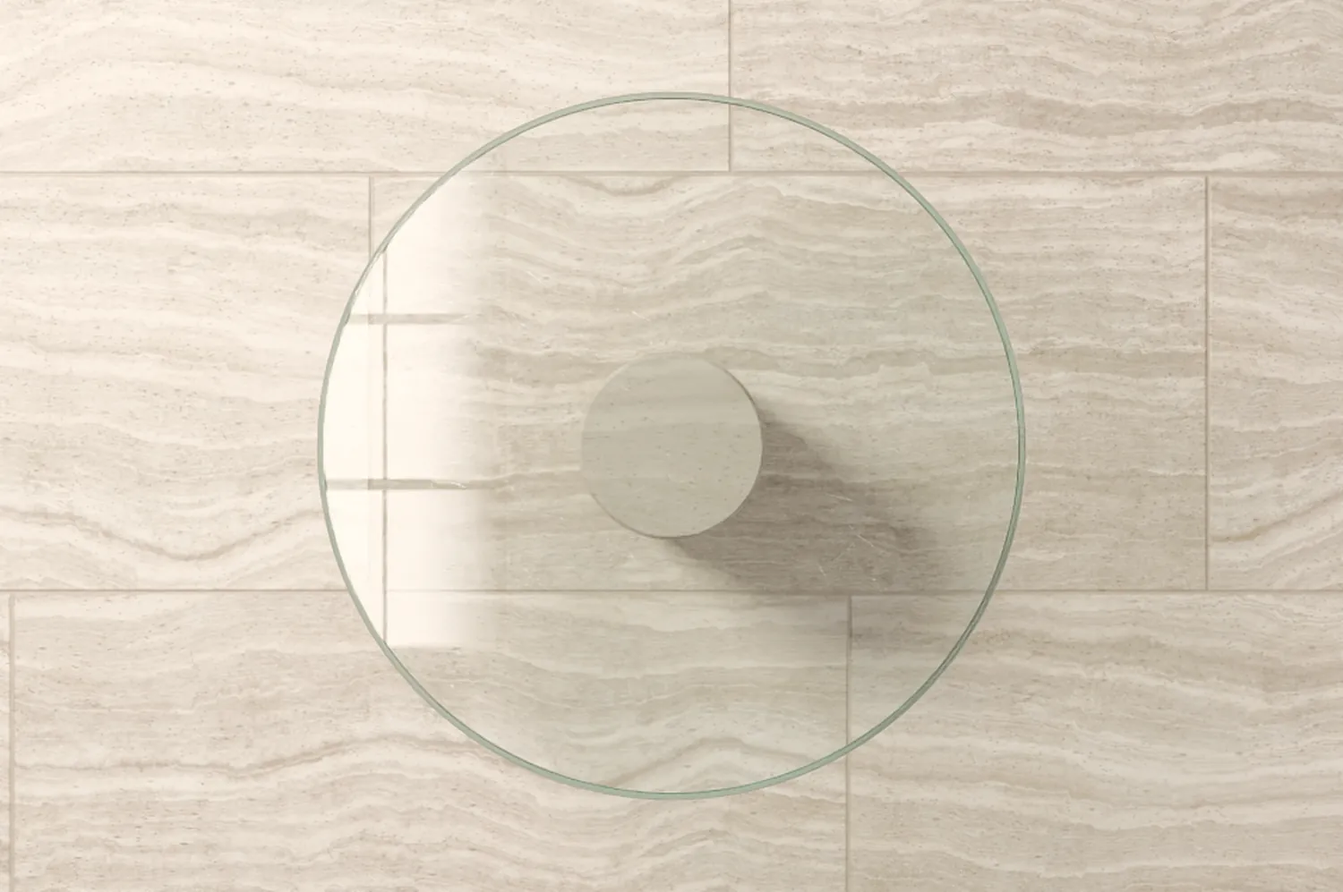
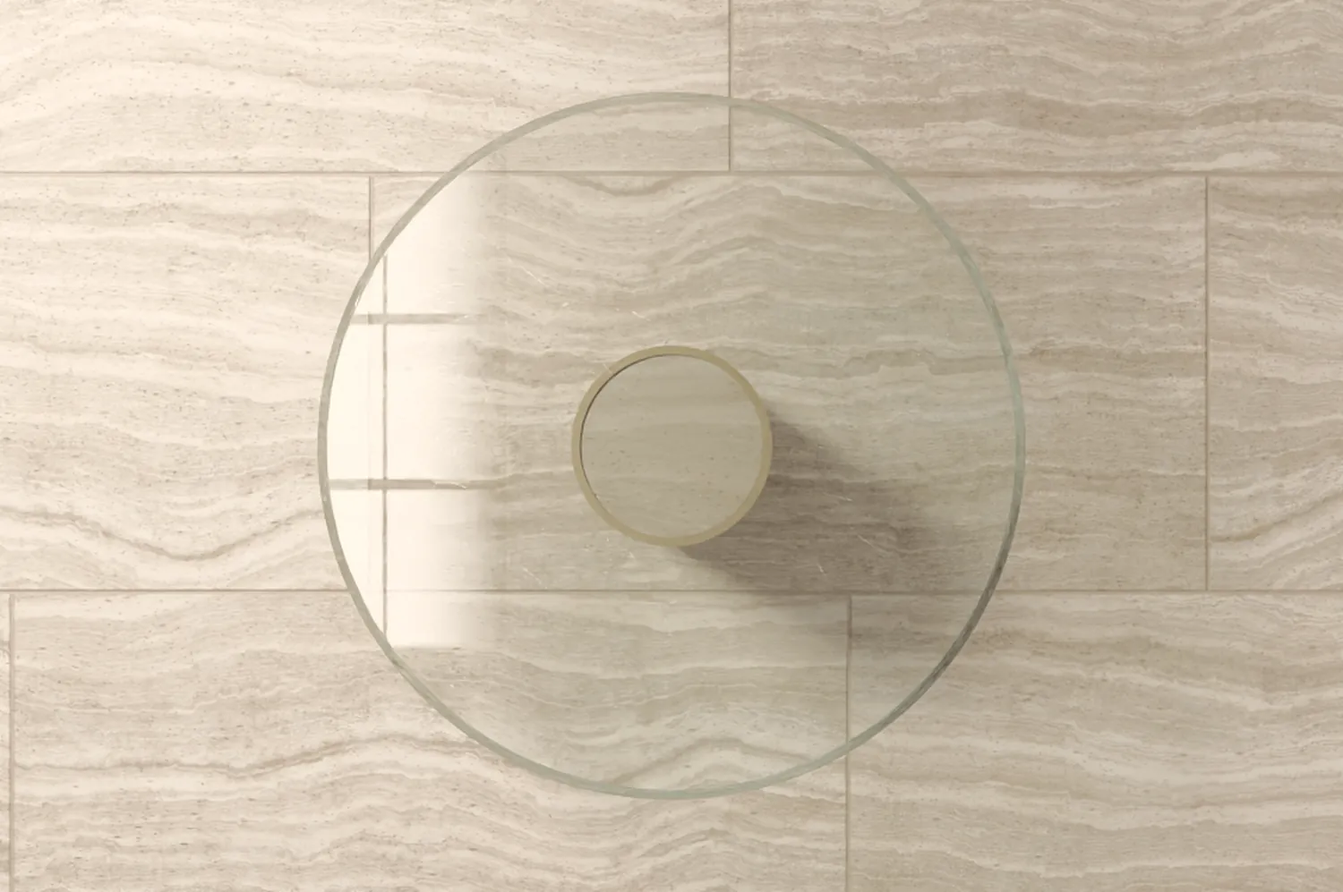
Газета: обновлённые черновики рендера стеклянного стола (в работе, на сайт не подключены)
Агент-художник продолжает: переработанные table_glass.py / table_glass_post.py, новый table_glass_shadows.py (слои теней журнала на стекле), черновые table-glass*.webp и css/news-table.css. Страницы эти файлы не подключают; финальный комплект будет отдельным коммитом после проверки на настоящей странице.

Claude-Session: https://claude.ai/code/session_01KiYDNmZLp2gU5DkgoBCDTD

diff --git a/css/news-table.css b/css/news-table.css
@@ -1,28 +1,45 @@
 /* ============ Новости: газета на круглом стеклянном столе ============
    Подключается ПОСЛЕ css/news-paper.css и только дополняет его: все правила под корнем .np и выше по специфичности, сам news-paper.css не правится.
-   Картинка стола — рендер Blender (tools/showroom-assets/news/table_glass.py): вид строго сверху на круглую столешницу из толстого стекла (Ø 90 см) и светлый
-   травертиновый пол вокруг, растянут на плоскость .np-table 3400×2260 px. Центр стола = центр плоскости; радиус стекла 900 px, барабан-основание под стеклом ≈ 240 px.
-   Перспективу и наклон камеры делает CSS (.np-cam), поэтому на картинке нет перспективы. Свет — окно слева сверху: тени падают вправо-вниз, отражение окна лежит на левом краю стекла.
-   Журнал на стекле: контактная тень мягче и светлее, чем на камне (стекло пропускает свет — основная тень ложится на пол сквозь стекло, смещена по лучу окна), кромку бумаги обводит тонкий светлый ореол. */
+   Картинка стола — рендер Blender (tools/showroom-assets/news/table_glass.py): вид строго сверху на круглую столешницу из толстого стекла (Ø 90 см, 2 см, полированная фаска)
+   и светлый травертиновый пол вокруг, растянут на плоскость .np-table 3400×2260 px (1 px плоскости = 0,5 мм на уровне столешницы).
+   Центр стола = центр плоскости (1700, 1130); радиус стекла 900 px; под стеклом каменный барабан с латунным кольцом (радиус ≈ 240 px, прячется под журналом).
+   Перспективу и наклон камеры делает CSS (.np-cam), поэтому на картинке перспективы нет. Свет — окно слева сверху: тени падают вправо-вниз, отражение окна лежит на левом краю стекла,
+   тень листвы — в правом верхнем углу плоскости (как тени оливы в зале главной).
+   Журнал на стекле: стекло пропускает свет, поэтому настоящая тень журнала ложится на ПОЛ сквозь стекло, смещена по лучу окна (стол высокий) и размыта — это запечённые слои .np-shd
+   (assets/news/news-shadow-*.webp); сама газета получает лишь тонкую контактную тень, светлую кромку и блик света окна. */
 
-/* пол и дымка вокруг стола: цвета сняты с рендера (пол ≈ #e9ded0 у света, #d7cbb8 в полутени), дальний край плоскости растворяется в светлой воздушной дымке */
-.np .np-sticky{background:#dfd4c3}
-.np .np-world{background:linear-gradient(180deg,#f2ede3 0,#e7dfd0 30%,#dacfbc 62%,#d3c7b3 100%)}
-.np .np-table{background:#dccfbd url(../assets/news/table-glass.webp) center/100% 100% no-repeat;
+/* ---------- пол и дымка ---------- */
+/* стол чуть ниже плоскости газеты: у news-paper.css он на -1px, а тень газеты (.np-book::before) на -2px — оказывалась ПОД столом и не была видна */
+.np .np-table{transform:translateZ(-6px);background:#cdbfa9 url(../assets/news/table-glass.webp) center/100% 100% no-repeat;
   -webkit-mask-image:linear-gradient(180deg,transparent 0,#000 13%),linear-gradient(90deg,transparent 0,#000 7%,#000 93%,transparent 100%);-webkit-mask-composite:source-in;
   mask-image:linear-gradient(180deg,transparent 0,#000 13%),linear-gradient(90deg,transparent 0,#000 7%,#000 93%,transparent 100%);mask-composite:intersect}
+/* цвета фона сняты с рендера: пол в свету ≈ #d6c8b4, в полутени ≈ #bfae96; дальний край плоскости растворяется в светлой воздушной дымке */
+.np .np-sticky{background:#cfc1ab}
+.np .np-world{background:linear-gradient(180deg,#efe8dc 0,#e0d6c4 28%,#d1c3ac 60%,#c8b9a1 100%)}
 /* камера «лежит» (прокрутка дошла до газеты, идёт листание): дымка по краям плоскости не видна — маску снимаем, слой дешевле для композитора на каждом кадре листания */
 .np .np-cam.is-flat .np-table{-webkit-mask-image:none;mask-image:none}
 @media (max-width:860px){.np .np-table{background-image:url(../assets/news/table-glass-m.webp)}}
 @media (prefers-reduced-data:reduce){.np .np-table{background-image:url(../assets/news/table-glass-m.webp)}}
 
 /* лёгкий слой света: тёплое «окно» слева сверху поверх пола и мягкое затемнение к краям плоскости (внимание — к столу, края кадра не видны) */
-.np .np-light{background:radial-gradient(52% 44% at 22% 14%,rgba(255,250,238,.26),transparent 70%),radial-gradient(70% 72% at 50% 52%,transparent 58%,rgba(86,70,46,.20) 100%)}
+.np .np-light{background:radial-gradient(52% 44% at 22% 14%,rgba(255,248,232,.20),transparent 70%),radial-gradient(70% 72% at 50% 52%,transparent 56%,rgba(70,54,34,.22) 100%)}
 
-/* газета на стекле: тень мягче и светлее, чем на камне, не чёрная.
-   1 — касание бумаги к стеклу (тонкая, прохладная); 2 — полутень на самом стекле; 3 — тень, прошедшая сквозь стекло и упавшая на пол (смещена вправо-вниз по лучу окна, как тень барабана на рендере);
-   4 — дальний мягкий след; 5 — тонкая тёмная кромка бумаги */
-.np .np-book::before{box-shadow:0 .04em .14em rgba(38,46,44,.34),.18em .34em .8em -.2em rgba(66,58,44,.24),1.5em 2.5em 3.2em -.9em rgba(76,62,42,.20),3.6em 5.6em 6.4em -2.2em rgba(76,62,42,.12),0 0 0 1px rgba(60,48,28,.14)}
-/* просвечивание: бумага светлее стекла, у её кромки стекло чуть подсвечено (двойная кромка — отражение нижней грани стекла), без свечения-«стикера» */
+/* ---------- запечённые тени журнала на полу сквозь стекло ----------
+   Два слоя внутри .np-rig (двигаются и поворачиваются вместе с газетой); размеры и смещение — в долях --pw / --ph (ширина и высота страницы, задаются JS на .np-rig).
+   .np-shd-c — закрытая газета (обложка 1 страница), .np-shd-o — разворот (2 страницы); включается классом .is-on (плавное перекрёстное растворение).
+   Поле слоя при --pw = 500, --ph = 676: закрытая 1680×1590 px, смещение (-380; -460) от центра журнала; разворот 2140×1590 px, смещение (-640; -460). Центр журнала = центр .np-rig. */
+.np .np-shd{position:absolute;left:0;top:0;pointer-events:none;opacity:0;transform:translateZ(-3px);background:0 0/100% 100% no-repeat;transition:opacity .55s ease}
+.np .np-shd.is-on{opacity:1}
+.np .np-shd-c{left:calc(var(--pw) * -.76);top:calc(var(--ph) * -.6805);width:calc(var(--pw) * 3.36);height:calc(var(--ph) * 2.352);background-image:url(../assets/news/news-shadow-closed.webp)}
+.np .np-shd-o{left:calc(var(--pw) * -1.28);top:calc(var(--ph) * -.6805);width:calc(var(--pw) * 4.28);height:calc(var(--ph) * 2.352);background-image:url(../assets/news/news-shadow-open.webp)}
+
+/* ---------- газета на стекле ---------- */
+/* контактная тень на самом стекле — тонкая и прохладная (стекло прозрачно: основная тень — на полу); снизу — торец стопки страниц (3 px линий кромок) */
+.np .np-book::before{bottom:-3px;background:repeating-linear-gradient(180deg,#f6efde 0 1px,#cbbf9f 1px 2px,#efe6d0 2px 3px);
+  box-shadow:0 .05em .1em rgba(36,44,42,.34),.1em .2em .45em -.05em rgba(64,54,40,.22),.35em .6em 1.3em -.35em rgba(70,58,40,.16),0 0 0 1px rgba(60,48,28,.16)}
+/* просвечивание: у кромки бумаги стекло чуть подсвечено (двойная кромка от нижней грани стекла), без свечения-«стикера» */
 .np .np-book::after{content:"";position:absolute;left:var(--sl,0);right:var(--sr,0);top:0;bottom:0;z-index:-1;transform:translateZ(-1px);border-radius:3px;pointer-events:none;
-  box-shadow:0 0 0 1px rgba(255,253,246,.34),0 0 .55em .06em rgba(255,250,236,.30)}
+  box-shadow:0 0 0 1px rgba(255,253,246,.30),0 0 .5em .05em rgba(255,250,236,.26)}
+/* бумага ловит свет окна: мягкий диагональный свет слева сверху и лёгкая тень справа снизу; на обложке — ещё и узкий блик (глянцевая печать) */
+.np .np-face::after{content:"";position:absolute;inset:0;z-index:3;pointer-events:none;background:linear-gradient(118deg,rgba(255,251,240,.17) 0,rgba(255,251,240,0) 36%,rgba(44,30,10,0) 64%,rgba(44,30,10,.09) 100%)}
+.np .np-face:has(>.np-p-cover)::after{background:linear-gradient(112deg,rgba(255,252,244,0) 18%,rgba(255,252,244,.20) 27%,rgba(255,252,244,0) 36%),linear-gradient(118deg,rgba(255,251,240,.15) 0,rgba(255,251,240,0) 36%,rgba(44,30,10,0) 64%,rgba(44,30,10,.09) 100%)}

diff --git a/tools/showroom-assets/news/table_glass.py b/tools/showroom-assets/news/table_glass.py
@@ -32,6 +32,7 @@ TEXD = os.path.join(ROOT, 'tools', 'showroom-assets', 'textures')
 _f = lambda k, d: float(os.environ.get(k, d))
 OUT = os.path.abspath(sys.argv[1]) if len(sys.argv) > 1 else os.path.join(os.environ.get('TG_TMP', '/tmp'), 'table_glass_raw.png')
 TMP = os.environ.get('TG_TMP', '/tmp'); os.makedirs(TMP, exist_ok=True)
+BOOK = os.environ.get('TG_BOOK', '')                       # '' — обычный кадр; 'closed' / 'open' — слой тени журнала (см. table_glass_shadows.py): журнал камере невидим, отбрасывает тень и подсвечивает пол
 RW = int(_f('TG_W', 2880)); RH = round(RW * 2260 / 3400); SPP = int(_f('TG_SPP', 112))
 
 # ---------------------------------------------------------------------------------------------------------------- размеры (1 ед. = 10 см)
@@ -121,12 +122,12 @@ def make_dust_map(path, S=4096):
         stroke(sc, pts, 1 if rng.random() < .75 else 2, rng.uniform(.18, .75))
     # длинные редкие дуги — следы протирания тканью (по всему диску, не сходятся в центре)
     sw = np.zeros((S, S), np.float32)
-    for i in range(30):
+    for i in range(14):
         r = math.sqrt(rng.uniform(0, 1)) * c * .9; ang = rng.uniform(0, 2 * math.pi); x, y = c + r * math.cos(ang), c + r * math.sin(ang)
-        t = rng.uniform(0, 2 * math.pi); turn = rng.choice([-1, 1]) * rng.uniform(.0006, .0030); step = rng.uniform(.5, 1.6) * S / 70; pts = []
+        t = rng.uniform(0, 2 * math.pi); turn = rng.choice([-1, 1]) * rng.uniform(.0002, .0007); step = rng.uniform(.5, 1.6) * S / 70; pts = []
         for k in range(60):
             pts.append((x, y)); x += math.cos(t) * step; y += math.sin(t) * step; t += turn * step
-        stroke(sw, pts, 3, rng.uniform(.12, .38))
+        stroke(sw, pts, 3, rng.uniform(.10, .30))
     sw = cv2.GaussianBlur(sw, (0, 0), 2.2)
     # пылинки и точки: редкие, мелкие, чуть разной яркости, кучками
     du = np.zeros((S, S), np.float32)
@@ -142,7 +143,7 @@ def make_dust_map(path, S=4096):
 
 
 # ---------------------------------------------------------------------------------------------------------------- материалы
-def stone_mat(name, tile_units=12.0, slab=(12.0, 6.0), joints=True, albedo=(.83, .79, .72), chroma=.42, honed=.40, pits=1.0, seed=1, cboost=2.1):
+def stone_mat(name, tile_units=12.0, slab=(12.0, 6.0), joints=True, albedo=(.83, .79, .72), chroma=.42, honed=.34, pits=1.0, seed=1, cboost=2.1):
     """травертин: цвет и жилы — из пака CC0 (travertine-ivory), приглушён к нейтрально-тёплому тону (chroma — доля исходной насыщенности), плиты slab вразбежку, у каждой свой кусок рисунка,
     швы, процедурные поры (вытянутые вдоль слоёв) и микрозерно; матовая шлифовка"""
     m = bpy.data.materials.new(name); nt = nodes_of(m)
@@ -221,7 +222,7 @@ def glass_mat(dust_path):
     mp.inputs['Scale'].default_value = (1 / (2 * R_GLASS / .985 * 1.0),) * 2 + (1,); mp.inputs['Location'].default_value = (.5, .5, 0); link(nt, tc.outputs['Object'], mp.inputs['Vector'])
     dt = img_tex(nt, dust_path, 'Non-Color', mp.outputs['Vector'], 'Linear'); dm = dt.outputs['Color']
     dmask = N(nt, 'ShaderNodeRGBToBW'); link(nt, dm, dmask.inputs['Color']); dv = dmask.outputs['Val']
-    scr = _f('TG_SCR', .6)
+    scr = _f('TG_SCR', .7)
     # низкочастотная волнистость поверхности: настоящее флоат-стекло чуть «играет» в отражении — мягкие полосы вместо однотонной пелены
     wave = noise_(nt, tc.outputs['Object'], .42, 2, .5, .5)
     rough = math_(nt, 'ADD', .004, math_(nt, 'MULTIPLY', dv, .10 * scr), clamp=True)
@@ -233,7 +234,7 @@ def glass_mat(dust_path):
     dg = N(nt, 'ShaderNodeMixShader'); dg.inputs['Fac'].default_value = .12; link(nt, gs.outputs['BSDF'], dg.inputs[1]); link(nt, df.outputs['BSDF'], dg.inputs[2])
     sc_mix = N(nt, 'ShaderNodeMixShader'); link(nt, math_(nt, 'MULTIPLY', dv, .55 * scr, clamp=True), sc_mix.inputs['Fac']); link(nt, gl.outputs['BSDF'], sc_mix.inputs[1]); link(nt, dg.outputs['Shader'], sc_mix.inputs[2])
     # теневые лучи: плёнка с тоном стекла
-    tr = N(nt, 'ShaderNodeBsdfTransparent'); tr.inputs['Color'].default_value = (_f('TG_SHR', .86), _f('TG_SHG', .88), _f('TG_SHB', .86), 1)
+    tr = N(nt, 'ShaderNodeBsdfTransparent'); tr.inputs['Color'].default_value = (_f('TG_SHR', .90), _f('TG_SHG', .92), _f('TG_SHB', .90), 1)
     lp = N(nt, 'ShaderNodeLightPath'); fin = N(nt, 'ShaderNodeMixShader'); link(nt, lp.outputs['Is Shadow Ray'], fin.inputs['Fac']); link(nt, sc_mix.outputs['Shader'], fin.inputs[1]); link(nt, tr.outputs['BSDF'], fin.inputs[2])
     link(nt, fin.outputs['Shader'], out.inputs['Surface'])
     ab = N(nt, 'ShaderNodeVolumeAbsorption'); ab.inputs['Color'].default_value = (_f('TG_ABR', .92), _f('TG_ABG', .975), _f('TG_ABB', .945), 1); ab.inputs['Density'].default_value = _f('TG_ABD', 5.0); link(nt, ab.outputs['Volume'], out.inputs['Volume'])
@@ -288,36 +289,60 @@ def window_panel_mat(s_win):
 
 # ---------------------------------------------------------------------------------------------------------------- геометрия
 def lathe(name, profile, segs, mat, side_mat=None):
-    """тело вращения вокруг оси Z по профилю [(r, z), …] от нижней оси к верхней; крышки — отдельные плоские n-угольники"""
-    me = bpy.data.meshes.new(name); bm = bmesh.new()
-    pts = profile
-    rings = []
-    for r, z in pts[1:-1]:
-        rings.append([bm.verts.new((r * math.cos(2 * math.pi * i / segs), r * math.sin(2 * math.pi * i / segs), z)) for i in range(segs)])
-    for a, b in zip(rings[:-1], rings[1:]):
+    """тело вращения вокруг оси Z по профилю [(r, z), …] от нижней оси к верхней. У каждого отрезка профиля свои кольца вершин: нормали сглаживаются только по окружности,
+    поэтому плоские грани (боковая, фаска) остаются строго плоскими вдоль профиля и не «заплывают» около скруглений; крышки — отдельные плоские n-угольники"""
+    me = bpy.data.meshes.new(name); bm = bmesh.new(); pts = profile
+    ring = lambda r, z: [bm.verts.new((r * math.cos(2 * math.pi * i / segs), r * math.sin(2 * math.pi * i / segs), z)) for i in range(segs)]
+    inner = pts[1:-1]
+    for (r0, z0), (r1, z1) in zip(inner[:-1], inner[1:]):
+        a, b = ring(r0, z0), ring(r1, z1)
         for i in range(segs):
             j = (i + 1) % segs; f = bm.faces.new((a[i], a[j], b[j], b[i])); f.smooth = True; f.material_index = 1 if side_mat else 0
-    # крышки на отдельных вершинах (чтобы их нормали были строго плоскими)
-    for ring, z, up in ((rings[0], pts[0][1], False), (rings[-1], pts[-1][1], True)):
-        r = math.hypot(ring[0].co.x, ring[0].co.y); zc = ring[0].co.z
-        cap = [bm.verts.new((r * math.cos(2 * math.pi * i / segs), r * math.sin(2 * math.pi * i / segs), zc)) for i in range(segs)]
-        f = bm.faces.new(cap if up else cap[::-1]); f.smooth = False
+    for (r, z), up in ((inner[0], False), (inner[-1], True)):
+        cap = ring(r, z); f = bm.faces.new(cap if up else cap[::-1]); f.smooth = False
     bm.to_mesh(me); bm.free()
     ob = bpy.data.objects.new(name, me); bpy.context.scene.collection.objects.link(ob); ob.data.materials.append(mat)
     if side_mat: ob.data.materials.append(side_mat)
     return ob
 
 
+def rounded(points, radii, n=5):
+    """ломаная с круглением углов: на каждом внутреннем углу отрезок заменяется квадратичной кривой Безье (радиус — отступ вдоль сторон)"""
+    out = [points[0]]
+    for k in range(1, len(points) - 1):
+        p0, c, p1 = Vector(points[k - 1]), Vector(points[k]), Vector(points[k + 1]); d = radii[k - 1]
+        u0 = (p0 - c).normalized() * min(d, (p0 - c).length * .45); u1 = (p1 - c).normalized() * min(d, (p1 - c).length * .45); a, b = c + u0, c + u1
+        for t in [i / n for i in range(n + 1)]:
+            q = (1 - t) ** 2 * a + 2 * t * (1 - t) * c + t * t * b; out.append((q.x, q.y))
+    out.append(points[-1]); return out
+
+
+def annulus(name, r0, r1, z0, z1, segs, mat):
+    """плоское кольцо (шайба): верх, низ, внешняя и внутренняя боковые грани"""
+    me = bpy.data.meshes.new(name); bm = bmesh.new()
+    ring = lambda r, z: [bm.verts.new((r * math.cos(2 * math.pi * i / segs), r * math.sin(2 * math.pi * i / segs), z)) for i in range(segs)]
+    def strip(a, b, flip, smooth):
+        for i in range(segs):
+            j = (i + 1) % segs; f = bm.faces.new((a[i], a[j], b[j], b[i]) if not flip else (b[i], b[j], a[j], a[i])); f.smooth = smooth
+    strip(ring(r0, z1), ring(r1, z1), True, False); strip(ring(r0, z0), ring(r1, z0), False, False)          # верх (нормаль вверх), низ
+    strip(ring(r1, z0), ring(r1, z1), False, True); strip(ring(r0, z0), ring(r0, z1), True, True)             # внешняя, внутренняя
+    bm.to_mesh(me); bm.free(); ob = bpy.data.objects.new(name, me); bpy.context.scene.collection.objects.link(ob); ob.data.materials.append(mat); return ob
+
+
+CHW, CHH = _f('TG_CHW', .11), _f('TG_CHH', .09)          # фаска по верхней кромке: 11 мм по горизонтали и 9 мм по вертикали (≈ 40°) — полированная фаска толстого стекла
+
+
 def glass_profile():
-    c = ARRIS; R = R_GLASS; steps = 7
-    prof = [(0, Z_BOT)]
-    for k in range(steps + 1):                                    # нижнее закругление
-        a = math.pi / 2 * k / steps; prof.append((R - c + c * math.sin(a), Z_BOT + c - c * math.cos(a)))
-    for k in range(steps + 1):                                    # верхнее закругление
-        a = math.pi / 2 * k / steps; prof.append((R - c + c * math.cos(a), Z_TOP - c + c * math.sin(a)))
-    prof.append((0, Z_TOP))
-    # убираем дубль точки (R, Z_BOT + c) / (R, Z_TOP − c) — они разные, но на боковой грани нужен только один отрезок между ними
-    return prof
+    """профиль стекла: плоское дно, боковая грань, наклонная полированная фаска сверху, плоский верх; углы скруглены (0,3–0,5 мм) — кромки ловят свет, а не режут бритвой"""
+    R = R_GLASS
+    return rounded([(0, Z_BOT), (R, Z_BOT), (R, Z_TOP - CHH), (R - CHW, Z_TOP), (0, Z_TOP)], [.025, .035, .035], 4)
+
+
+def leaf_alpha_png(path):
+    """маска листвы: верхняя часть assets/showroom/layer-plant.webp (ветка без вазы-шара), только альфа; лёгкое размытие 0,8 px"""
+    from PIL import Image
+    im = Image.open(os.path.join(ROOT, 'assets', 'showroom', 'layer-plant.webp')).convert('RGBA'); a = np.asarray(im)[..., 3].astype(np.float32)[:853] / 255.0
+    a = cv2.GaussianBlur(a, (0, 0), .8); out = np.dstack([np.ones_like(a)] * 3 + [a]); cv2.imwrite(path, (out[..., [2, 1, 0, 3]] * 255).astype(np.uint8)); return path
 
 
 def build(sc):
@@ -330,27 +355,36 @@ def build(sc):
     g = lathe('glass', glass_profile(), 360, gm, glass_edge_mat())
     # ---- барабан-основание
     dm = stone_mat('tg_drum', joints=False, albedo=(_f('TG_DR', .60), _f('TG_DG', .51), _f('TG_DB', .42)), chroma=_f('TG_FCH', .62), honed=.55, cboost=1.4)
-    drum_top = Z_BOT - .035
-    d = lathe('drum', [(0, 0), (R_DRUM, 0), (R_DRUM, drum_top * .15), (R_DRUM, drum_top - .06), (R_DRUM - .05, drum_top), (0, drum_top)], 160, dm)
-    # латунная инкрустация-кольцо по верху барабана (тонкая линия цвета фирменной латуни, видна сквозь стекло)
-    if os.environ.get('TG_RING', '0') == '1':
-      rr0, rr1 = R_DRUM - .13, R_DRUM - .08; zr = drum_top + .004; me = bpy.data.meshes.new('drum_ring'); bm = bmesh.new()
-      for i in range(160):
-          a0, a1 = 2 * math.pi * i / 160, 2 * math.pi * (i + 1) / 160
-          bm.faces.new([bm.verts.new((r * math.cos(a), r * math.sin(a), zr)) for r, a in ((rr0, a0), (rr1, a0), (rr1, a1), (rr0, a1))]).smooth = False
-      bm.to_mesh(me); bm.free(); rg = bpy.data.objects.new('drum_ring', me); sc.collection.objects.link(rg); rg.data.materials.append(brass_mat())
+    drum_top = Z_BOT - .075
+    d = lathe('drum', rounded([(0, 0), (R_DRUM, 0), (R_DRUM, drum_top), (0, drum_top)], [.03, .045], 4), 200, dm)
+    # латунное кольцо-прокладка между барабаном и стеклом: тонкая линия фирменной латуни, видна сквозь стекло по кромке барабана
+    if os.environ.get('TG_RING', '1') == '1':
+        annulus('collar', R_DRUM - .03, R_DRUM + .08, drum_top, drum_top + .03, 200, brass_mat())
     # ---- свет
     key = bpy.data.lights.new('key', 'AREA'); key.shape = 'RECTANGLE'; key.size = _f('TG_KS', 6.0); key.size_y = _f('TG_KS', 6.0) * 1.35
-    key.energy = _f('TG_KEY', 34000.0); key.color = (1.0, .92, .80)
+    key.energy = _f('TG_KEY', 20000.0); key.color = (1.0, .92, .80)
     ko = bpy.data.objects.new('key', key); sc.collection.objects.link(ko); ko.location = Vector((_f('TG_KX', -15.0), _f('TG_KY', 10.0), _f('TG_KZ', 21.0)))
     ko.rotation_euler = (Vector((2.0, -1.0, Z_TOP)) - ko.location).to_track_quat('-Z', 'Y').to_euler()
     ko.visible_camera = False
     # мягкий контровой свет справа-сверху (отражённый от стен), слабый
     rf = bpy.data.lights.new('rim', 'AREA'); rf.shape = 'RECTANGLE'; rf.size = 16; rf.size_y = 12; rf.energy = _f('TG_RIM', 5500.0); rf.color = (.90, .94, 1.0)
     ro = bpy.data.objects.new('rim', rf); sc.collection.objects.link(ro); ro.location = Vector((19.0, -9.0, 24.0)); ro.rotation_euler = (Vector((0, 0, Z_TOP)) - ro.location).to_track_quat('-Z', 'Y').to_euler(); ro.visible_camera = False; ro.visible_glossy = False
+    # ---- тень листвы: ветка с листьями (тот же рисунок, что в зале и в витрине каталога) между окном и полом отбрасывает мягкую тень в верхний правый угол кадра — как тени оливы в зале главной;
+    #      сама ветка камере, отражениям и диффузному свету не видна (только тень); добавлен узкий солнечный свет: даёт тени листьев чёткий рисунок под мягким светом окна
+    if _f('TG_LEAF', 1.0) > 0:
+        lp = leaf_alpha_png(os.path.join(TMP, 'tg_leaf.png'))
+        lm = bpy.data.materials.new('tg_leaf'); nt = nodes_of(lm); out = N(nt, 'ShaderNodeOutputMaterial'); pb = N(nt, 'ShaderNodeBsdfPrincipled'); link(nt, pb.outputs['BSDF'], out.inputs['Surface'])
+        tx = img_tex(nt, lp, 'Non-Color', N(nt, 'ShaderNodeTexCoord').outputs['UV'], 'Linear'); link(nt, tx.outputs['Alpha'], pb.inputs['Alpha'])
+        Sx, Sy = _f('TG_LX', 6.0), _f('TG_LY', 2.6); Lp = Vector((_f('TG_KX', -15.0), _f('TG_KY', 10.0), _f('TG_KZ', 21.0))); T0 = Vector((2.0, -1.0, Z_TOP))
+        dh = (T0 - Lp).normalized(); Sp = Vector((Sx, Sy, 0.0)); pos = Sp - dh * (_f('TG_LH', 11.5) / -dh.z)            # ветка стоит на обратном луче солнца над точкой тени
+        bpy.ops.mesh.primitive_plane_add(size=1, location=pos); lf = bpy.context.object; lf.name = 'leaves'; lf.scale = (_f('TG_LW', 9.0), _f('TG_LW', 9.0) * 853 / 1589, 1)
+        lf.rotation_euler = (-dh).to_track_quat('Z', 'Y').to_euler(); lf.rotation_euler.rotate_axis('Z', math.radians(_f('TG_LR', 20.0))); lf.data.materials.append(lm)
+        lf.visible_camera = bool(os.environ.get('TG_LEAFDBG')); lf.visible_diffuse = False; lf.visible_glossy = False; lf.visible_transmission = False; lf.visible_volume_scatter = False
+        sun = bpy.data.lights.new('sun', 'SUN'); sun.energy = _f('TG_SUN', 7.0); sun.angle = math.radians(_f('TG_SUNA', 1.2)); sun.color = (1.0, .93, .82)
+        so = bpy.data.objects.new('sun', sun); sc.collection.objects.link(so); so.rotation_euler = dh.to_track_quat('-Z', 'Y').to_euler(); so.visible_glossy = False
     # ---- мир: холодный мягкий свет потолка и неба
     w = bpy.data.worlds.new('w'); w.use_nodes = True; nt = w.node_tree; bg = nt.nodes['Background']
-    bg.inputs['Color'].default_value = (1.0, .975, .94, 1); bg.inputs['Strength'].default_value = _f('TG_SKY', .5); sc.world = w
+    bg.inputs['Color'].default_value = (1.0, .975, .94, 1); bg.inputs['Strength'].default_value = _f('TG_SKY', .45); sc.world = w
     # ---- отражаемое окно: панель над столом, камере невидима, освещения не даёт
     pm = window_panel_mat(_f('TG_WIN', 125.0))
     bpy.ops.mesh.primitive_plane_add(size=1, location=(_f('TG_WX', -5.2), _f('TG_WY', .8), Z_TOP + _f('TG_WZ', 13.0))); wp = bpy.context.object; wp.name = 'window'
@@ -361,6 +395,15 @@ def build(sc):
     bpy.ops.mesh.primitive_plane_add(size=1, location=(_f('TG_SX', -2.0), _f('TG_SY', 1.5), Z_TOP + _f('TG_SZ', 16.0))); sp_ = bpy.context.object; sp_.name = 'sheen'
     sp_.scale = (_f('TG_SW', 26.0), _f('TG_SH', 20.0), 1); sp_.rotation_euler = (math.pi, 0, 0); sp_.data.materials.append(sm)
     sp_.visible_camera = False; sp_.visible_diffuse = False; sp_.visible_shadow = False; sp_.visible_transmission = False
+    # ---- журнал (только для слоёв теней): закрытая обложка 500×676 px страницы = 2,5×3,38 ед. (25×33,8 см) либо разворот вдвое шире; лежит на стекле, толщина 3 мм
+    if BOOK in ('closed', 'open'):
+        pw, ph = 500 * PX, 676 * PX; w = pw if BOOK == 'closed' else 2 * pw; th = .03 if BOOK == 'closed' else .026
+        bpy.ops.mesh.primitive_cube_add(size=1, location=(0, 0, Z_TOP + th / 2)); bk = bpy.context.object; bk.name = 'magazine'; bk.scale = (w, ph, th)
+        bpy.ops.object.transform_apply(location=False, rotation=False, scale=True)
+        bv = bk.modifiers.new('bev', 'BEVEL'); bv.width = .012; bv.segments = 2; bv.limit_method = 'ANGLE'
+        pm_ = bpy.data.materials.new('tg_paper'); nt = nodes_of(pm_); out = N(nt, 'ShaderNodeOutputMaterial'); pb = N(nt, 'ShaderNodeBsdfPrincipled'); link(nt, pb.outputs['BSDF'], out.inputs['Surface'])
+        pb.inputs['Base Color'].default_value = (.86, .80, .66, 1); pb.inputs['Roughness'].default_value = .85; bk.data.materials.append(pm_)
+        bk.visible_camera = False; bk.visible_glossy = False                                # в кадре не виден (его рисует HTML), но закрывает свет и подсвечивает стекло и пол отражённым светом
     # ---- камера: строго сверху
     cd = bpy.data.cameras.new('cam'); cd.sensor_width = 36; cd.sensor_fit = 'HORIZONTAL'; cd.lens = LENS; cd.dof.use_dof = False
     co = bpy.data.objects.new('cam', cd); sc.collection.objects.link(co); co.location = (0, 0, Z_TOP + CAM_D); co.rotation_euler = (0, 0, 0); sc.camera = co

diff --git a/tools/showroom-assets/news/table_glass_shadows.py b/tools/showroom-assets/news/table_glass_shadows.py
@@ -1,0 +1,73 @@
+#!/usr/bin/env python3
+"""Слои «физической посадки» журнала на стеклянный стол: мягкая тень журнала на полу СКВОЗЬ стекло (стол высокий — тень смещена вправо-вниз по лучу окна и размыта) и общее затемнение/подсвет
+вокруг журнала от света, отражённого бумагой. Слои — полупрозрачный WebP (цвет тёмно-тёплый, переменная только прозрачность), лежат внутри .np-rig под журналом и двигаются вместе с газетой.
+
+Как получаются (запекаются Cycles, а не рисуются): table_glass.py рендерит один и тот же участок кадра дважды — без журнала и с журналом (TG_BOOK=closed|open; журнал камере невиден, но закрывает свет
+окна и солнца и подсвечивает пол). Здесь оба кадра проходят ту же цветокоррекцию, что и сам стол (table_glass_post.grade с общими средними основного кадра), и берётся отношение яркостей r = с журналом / без.
+Затемнение r < 1 пересчитывается в прозрачность тёмного тёплого цвета C так, чтобы поверх пола получить ровно r:  a = (1 − r) / (1 − Y(C) / Y(пол)).  Подсвет r > 1 (отражённый от бумаги свет)
+пишется отдельным светлым слоем, если он заметен (>1,5 %).
+
+  python3 tools/showroom-assets/news/table_glass_shadows.py            — полный цикл: рендер (≈ 6–8 мин) → assets/news/news-shadow-closed.webp, news-shadow-open.webp (+ -glow) и news-shadow.json
+  python3 tools/showroom-assets/news/table_glass_shadows.py post       — только пересчёт из уже готовых рендеров (TG_TMP)
+Основной сырой кадр стола (для общих средних цвета) берётся из TG_RAW (по умолчанию $TG_TMP/final.png)."""
+import os, sys, json, subprocess
+import numpy as np, cv2
+from PIL import Image
+
+HERE = os.path.dirname(os.path.abspath(__file__)); ROOT = os.path.normpath(os.path.join(HERE, '..', '..', '..'))
+sys.path.insert(0, HERE)
+TMP = os.environ.get('TG_TMP', '/tmp'); RAW = os.environ.get('TG_RAW', os.path.join(TMP, 'final.png')); OUT = os.environ.get('TG_OUT', os.path.join(ROOT, 'assets', 'news'))
+PW, PH, PLANE = 500, 676, (3400, 2260)                     # страница журнала на плоскости (при --pw 500), плоскость стола, px
+SHADOW = (48, 38, 27)                                      # тёмный тёплый цвет тени (не чёрный)
+# поле слоя относительно центра плоскости (= центра журнала), px: (x0, y0, x1, y1); запас под смещённую вправо-вниз тень и её размытие
+FIELD = {'closed': (-380, -460, 1300, 1130), 'open': (-640, -460, 1500, 1130)}
+RES_W = int(os.environ.get('TG_SHW', 1700))                # ширина рендера плоскости; 1700 → 1 px слоя = 2 px страницы
+
+
+def crop_frac(f):
+    x0, y0, x1, y1 = f; W, H = PLANE
+    return ((W / 2 + x0) / W, (H / 2 + y0) / H, (W / 2 + x1) / W, (H / 2 + y1) / H)
+
+
+def render(kind, book):
+    out = os.path.join(TMP, 'shadow_%s_%s.png' % (kind, book or 'none')); fr = crop_frac(FIELD[kind])
+    env = dict(os.environ, TG_TMP=TMP, TG_W=str(RES_W), TG_SPP=os.environ.get('TG_SHSPP', '160'), TG_CROP=','.join('%.5f' % v for v in fr), TG_BOOK=book or '')
+    subprocess.run([sys.executable, os.path.join(HERE, 'table_glass.py'), out], env=env, check=True, stdout=subprocess.DEVNULL, stderr=subprocess.DEVNULL); return out
+
+
+def lum(rgb): return rgb @ np.array([.2126, .7152, .0722], np.float32)
+
+
+def post(kind):
+    import table_glass_post as PG
+    ref = PG.ref_of(PG.load(RAW)); base = PG.grade(PG.load(os.path.join(TMP, 'shadow_%s_none.png' % kind)), ref); wb = PG.grade(PG.load(os.path.join(TMP, 'shadow_%s_%s.png' % (kind, kind))), ref)
+    yb, yw = lum(base), lum(wb); r = cv2.GaussianBlur(yw, (0, 0), 1.6) / np.maximum(cv2.GaussianBlur(yb, (0, 0), 1.6), 1e-3)
+    yc = float(lum(np.array(SHADOW, np.float32) / 255)); den = np.maximum(1 - yc / np.maximum(yb, yc + .05), .15)
+    a_dark = np.clip((1 - r) / den, 0, 1) ** 1.0; a_glow = np.clip((r - 1.0) * np.maximum(yb, .3) / np.maximum(1 - yb, .12), 0, .5)
+    x0, y0, x1, y1 = FIELD[kind]; h, w = a_dark.shape; k = (x1 - x0) / w                       # px страницы на px слоя
+    res = {'kind': kind, 'file': 'news-shadow-%s.webp' % kind, 'px': [w, h], 'css_px': [x1 - x0, y1 - y0], 'offset_px': [x0, y0], 'scale': k,
+           'shadow_max_alpha': float(a_dark.max()), 'glow_max_alpha': float(a_glow.max())}
+    rgba = np.zeros((h, w, 4), np.uint8); rgba[..., 0], rgba[..., 1], rgba[..., 2] = SHADOW; rgba[..., 3] = (a_dark * 255 + .5).astype(np.uint8)
+    Image.fromarray(rgba, 'RGBA').save(os.path.join(OUT, res['file']), 'WEBP', quality=88, method=6, exact=True); res['bytes'] = os.path.getsize(os.path.join(OUT, res['file']))
+    if a_glow.max() > .015:
+        g = np.zeros((h, w, 4), np.uint8); g[..., :3] = (255, 250, 238); g[..., 3] = (a_glow * 255 + .5).astype(np.uint8)
+        gf = 'news-glow-%s.webp' % kind; Image.fromarray(g, 'RGBA').save(os.path.join(OUT, gf), 'WEBP', quality=88, method=6, exact=True); res['glow_file'] = gf; res['glow_bytes'] = os.path.getsize(os.path.join(OUT, gf))
+    return res
+
+
+def main():
+    mode = sys.argv[1] if len(sys.argv) > 1 else 'all'
+    if mode == 'all':
+        for kind in ('closed', 'open'):
+            render(kind, ''); render(kind, kind)
+    out = {}
+    for kind in ('closed', 'open'):
+        r = post(kind)
+        x0, y0 = r['offset_px']; w, h = r['css_px']
+        r['in_pw_ph'] = {'left': x0 / PW, 'top': y0 / PH, 'width': w / PW, 'height': h / PH}
+        out[kind] = r; print(json.dumps(r, ensure_ascii=False))
+    json.dump(out, open(os.path.join(OUT, 'news-shadow.json'), 'w'), ensure_ascii=False, indent=1)
+
+
+if __name__ == '__main__':
+    main()

diff --git a/tools/showroom-assets/news/table_glass_post.py b/tools/showroom-assets/news/table_glass_post.py
@@ -8,23 +8,26 @@
 Цвет — к гамме сайта (как tools/showroom-assets/auditorium/grade_hall.py): перенос средних a, b в Lab к целевым (hue ≈ 85°, тёплый нейтральный, не жёлтый), яркость L — к целевому
 среднему с мягким контрастом; зелёное стекло и бирюзовая кромка сохраняют относительное отличие от камня (сдвиг одинаковый для всех пикселей), у светлых бликов яркость не поднимается.
 Затем: лёгкая нерезкая маска после масштабирования (поры и блики читаются при увеличении камерой), микрошум против бандинга (в пределах 0,35 уровня) и подбор качества WebP по весу
-(цель — не больше 700 КБ у plan и 280 КБ у телефонного кадра; качество сверху вниз, пока вес не уложится, но не ниже q62; контроль — PSNR и SSIM по яркости)."""
+(цель — не больше 900 КБ у plan и 350 КБ у телефонного кадра; качество сверху вниз, пока вес не уложится, но не ниже q62; контроль — PSNR и SSIM по яркости)."""
 import os, sys
 import numpy as np, cv2
 from PIL import Image, ImageFilter
 
 HERE = os.path.dirname(os.path.abspath(__file__)); ROOT = os.path.normpath(os.path.join(HERE, '..', '..', '..'))
-args = [a for a in sys.argv[1:] if not a.startswith('--')]
-SRC = args[0] if args else '/tmp/table_glass_raw.png'
-OUT = sys.argv[sys.argv.index('--out') + 1] if '--out' in sys.argv else os.path.join(ROOT, 'assets', 'news')
-if '--out' in sys.argv and OUT in args: args.remove(OUT); SRC = args[0]
-QUICK = '--quick' in sys.argv
-PNG = sys.argv[sys.argv.index('--png') + 1] if '--png' in sys.argv else None
-if PNG and PNG in args: args.remove(PNG); SRC = args[0]
+def _cli():
+    a = sys.argv[1:]; opts = {}; pos = []; i = 0
+    while i < len(a):
+        if a[i] in ('--out', '--png'): opts[a[i]] = a[i + 1]; i += 2
+        elif a[i].startswith('--'): opts[a[i]] = True; i += 1
+        else: pos.append(a[i]); i += 1
+    return (pos[0] if pos else '/tmp/table_glass_raw.png'), opts.get('--out', os.path.join(ROOT, 'assets', 'news')), bool(opts.get('--quick')), opts.get('--png')
+
+
+SRC, OUT, QUICK, PNG = _cli() if __name__ == '__main__' else ('', '', False, None)
 _f = lambda k, d: float(os.environ.get(k, d))
 # целевой цвет: общий цвет сайта (зал главной, «Обучение»): hue ≈ 85°, a ≈ 0,8, b ≈ 10–11
-T = dict(L_mean=_f('PG_L', 80.0), L_contrast=_f('PG_LC', 1.0), a_mean=_f('PG_A', 1.0), b_mean=_f('PG_B', 9.0), chroma_max=_f('PG_CMAX', 26.0), gain=_f('PG_GAIN', 1.0), shadow_tint=_f('PG_ST', .75), sa=_f('PG_SA', 3.4), sb=_f('PG_SB', 9.5))
-SIZES = {'table-glass.webp': (2880, 1914, 700), 'table-glass-m.webp': (1500, 997, 280)}
+T = dict(L_mean=_f('PG_L', 74.0), L_contrast=_f('PG_LC', 1.0), a_mean=_f('PG_A', 1.5), b_mean=_f('PG_B', 11.0), chroma_max=_f('PG_CMAX', 26.0), gain=_f('PG_GAIN', 1.0), shadow_tint=_f('PG_ST', .75), sa=_f('PG_SA', 3.2), sb=_f('PG_SB', 11.5))
+SIZES = {'table-glass.webp': (2880, 1914, 900), 'table-glass-m.webp': (1500, 997, 350)}
 
 
 def load(path):
@@ -44,11 +47,15 @@ def smooth(x, e0, e1):
     t = np.clip((x - e0) / (e1 - e0), 0, 1); return t * t * (3 - 2 * t)
 
 
-def grade(rgb):
+def ref_of(rgb):
+    lab = lab_of(rgb); return dict(L=float(lab[..., 0].mean()), a=float(lab[..., 1].mean()), b=float(lab[..., 2].mean()))
+
+
+def grade(rgb, ref=None):
     """Lab: a, b — к целевым средним (одинаковый сдвиг для всех пикселей); тени подтягиваются к тёплому нейтральному тону (без оливкового); яркость — монотонная кривая:
     сдвиг среднего к цели, сходящий на нет к белому (блик окна не клипуется и не «рвётся» на пороге)"""
     lab = lab_of(rgb); L, A, B = lab[..., 0], lab[..., 1], lab[..., 2]
-    ref = dict(L=float(L.mean()), a=float(A.mean()), b=float(B.mean()))
+    ref = ref or dict(L=float(L.mean()), a=float(A.mean()), b=float(B.mean()))                       # ref — средние основного кадра (для кропов теней журнала)
     wg = np.clip(1 + (A + 1.5) / 5.0, 0, 1); wg = cv2.GaussianBlur(wg.astype(np.float32), (0, 0), 1.0)                       # зелёные пиксели (кромка стекла) не уводим в жёлтый
     A2 = A + (T['a_mean'] - ref['a']) * wg; B2 = B + (T['b_mean'] - ref['b']) * wg
     ws = smooth(L, 82, 52) * T['shadow_tint']                                                        # тени: к тёплому тону
@@ -78,7 +85,7 @@ def psnr_ssim(a, b):
 def encode(im, path, limit_kb):
     import io
     best = None
-    qs = [80] if QUICK else list(range(90, 61, -2))
+    qs = [80] if QUICK else list(range(94, 61, -2))
     for q in qs:
         buf = io.BytesIO(); im.save(buf, 'WEBP', quality=q, method=6, sns_strength=int(_f('PG_SNS', 70)), filter_strength=int(_f('PG_FILT', 30)), filter_sharpness=0, segments=4, exact=False)
         kb = len(buf.getvalue()) / 1024; best = (q, buf.getvalue(), kb)
